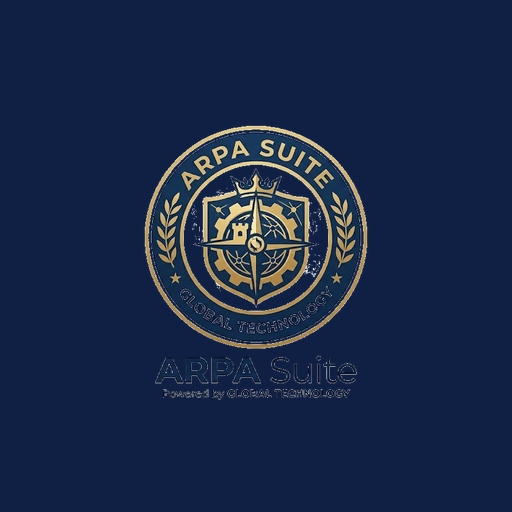
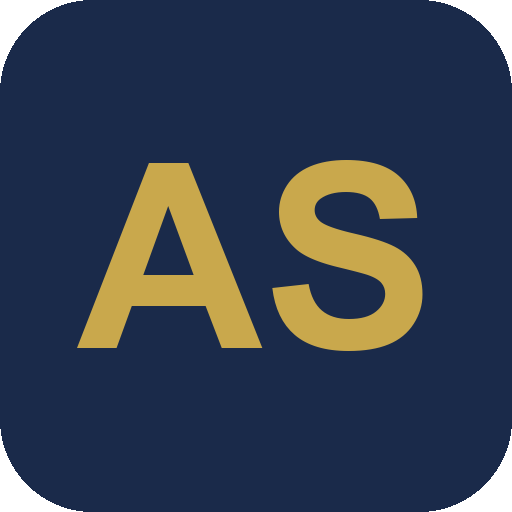
fix: nuevo icono PWA AS dorado sobre navy sin escudo
Reemplaza iconos 192/512, maskables y apple-touch; agrega icon-192x192 para Landing y script de regeneracion.

diff --git a/Landing.html b/Landing.html
@@ -8,6 +8,8 @@
 <link rel="preconnect" href="https://fonts.googleapis.com">
 <link rel="preconnect" href="https://fonts.gstatic.com" crossorigin>
 <link href="https://fonts.googleapis.com/css2?family=Syne:wght@400;600;700;800&family=Plus+Jakarta+Sans:wght@300;400;500;600;700&display=swap" rel="stylesheet">
+<link rel="icon" href="icon-192x192.png">
+<link rel="apple-touch-icon" href="icon-192x192.png">
 <style>
 /* ÔòÉÔòÉÔòÉÔòÉÔòÉÔòÉÔòÉÔòÉÔòÉÔòÉÔòÉÔòÉÔòÉÔòÉÔòÉÔòÉÔòÉÔòÉÔòÉÔòÉÔòÉÔòÉÔòÉÔòÉÔòÉÔòÉÔòÉÔòÉÔòÉÔòÉÔòÉÔòÉÔòÉÔòÉÔòÉÔòÉÔòÉÔòÉÔòÉÔòÉÔòÉÔòÉÔòÉ
    VARIABLES & RESET

diff --git a/service-worker.js b/service-worker.js
@@ -1,4 +1,4 @@
-const CACHE_NAME = 'arpa-suite-cache-v33';
+const CACHE_NAME = 'arpa-suite-cache-v34';
 const BASE = self.location.pathname.replace(/service-worker\.js$/, '');
 const ASSETS = [
   BASE,

diff --git a/scripts/generate-pwa-icons.py b/scripts/generate-pwa-icons.py
@@ -1,0 +1,72 @@
+"""Generate ARPA Suite PWA icons: navy rounded square + gold AS."""
+from PIL import Image, ImageDraw, ImageFont
+from pathlib import Path
+
+ROOT = Path(__file__).resolve().parent.parent
+NAVY = (26, 42, 74, 255)
+GOLD = (201, 168, 76, 255)
+
+FONT_CANDIDATES = [
+    Path(r"C:\Windows\Fonts\arialbd.ttf"),
+    Path(r"C:\Windows\Fonts\Arial Bold.ttf"),
+    Path(r"C:\Windows\Fonts\calibrib.ttf"),
+    Path("/usr/share/fonts/truetype/dejavu/DejaVuSans-Bold.ttf"),
+]
+
+
+def load_font(size: int) -> ImageFont.FreeTypeFont | ImageFont.ImageFont:
+    for path in FONT_CANDIDATES:
+        if path.exists():
+            return ImageFont.truetype(str(path), size)
+    return ImageFont.load_default()
+
+
+def draw_icon(size: int, corner_ratio: float = 0.18) -> Image.Image:
+    img = Image.new("RGBA", (size, size), (0, 0, 0, 0))
+    draw = ImageDraw.Draw(img)
+    radius = max(4, int(size * corner_ratio))
+    draw.rounded_rectangle([0, 0, size - 1, size - 1], radius=radius, fill=NAVY)
+
+    target = size * 0.70
+    font_size = int(size * 0.52)
+    font = load_font(font_size)
+
+    text = "AS"
+    while font_size > 8:
+        font = load_font(font_size)
+        bbox = draw.textbbox((0, 0), text, font=font)
+        tw = bbox[2] - bbox[0]
+        th = bbox[3] - bbox[1]
+        if tw <= target and th <= target:
+            break
+        font_size -= 2
+
+    bbox = draw.textbbox((0, 0), text, font=font)
+    tw = bbox[2] - bbox[0]
+    th = bbox[3] - bbox[1]
+    x = (size - tw) / 2 - bbox[0]
+    y = (size - th) / 2 - bbox[1]
+    draw.text((x, y), text, fill=GOLD, font=font)
+    return img
+
+
+def main() -> None:
+    outputs = [
+        "icon-192.png",
+        "icon-512.png",
+        "icon-192x192.png",
+        "icon-512x512.png",
+        "icon-maskable-192.png",
+        "icon-maskable-512.png",
+        "apple-touch-icon.png",
+    ]
+    for name in outputs:
+        size = 192 if "192" in name else 512
+        img = draw_icon(size)
+        out = ROOT / name
+        img.save(out, "PNG", optimize=True)
+        print(f"Wrote {out} ({size}x{size})")
+
+
+if __name__ == "__main__":
+    main()